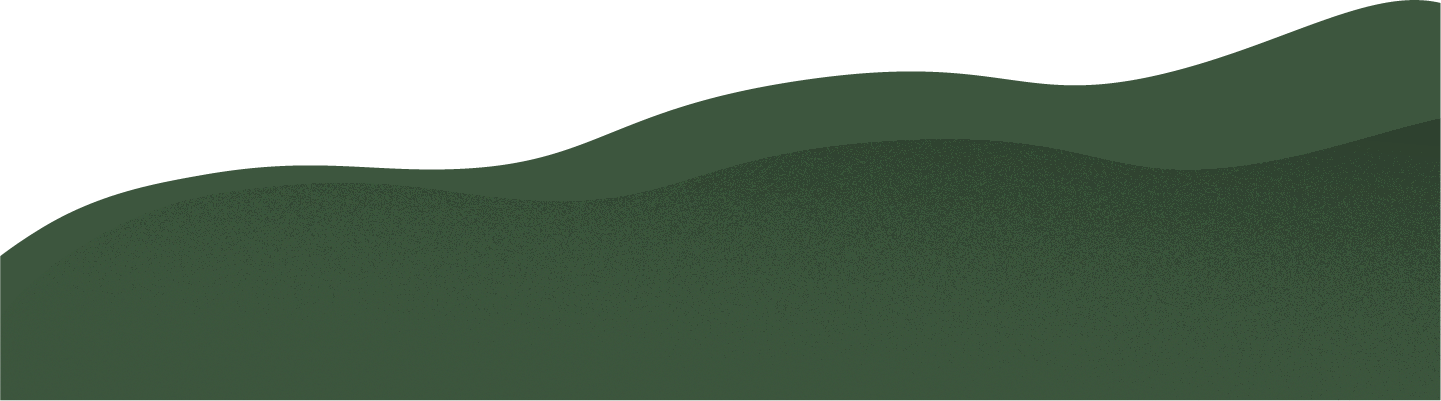
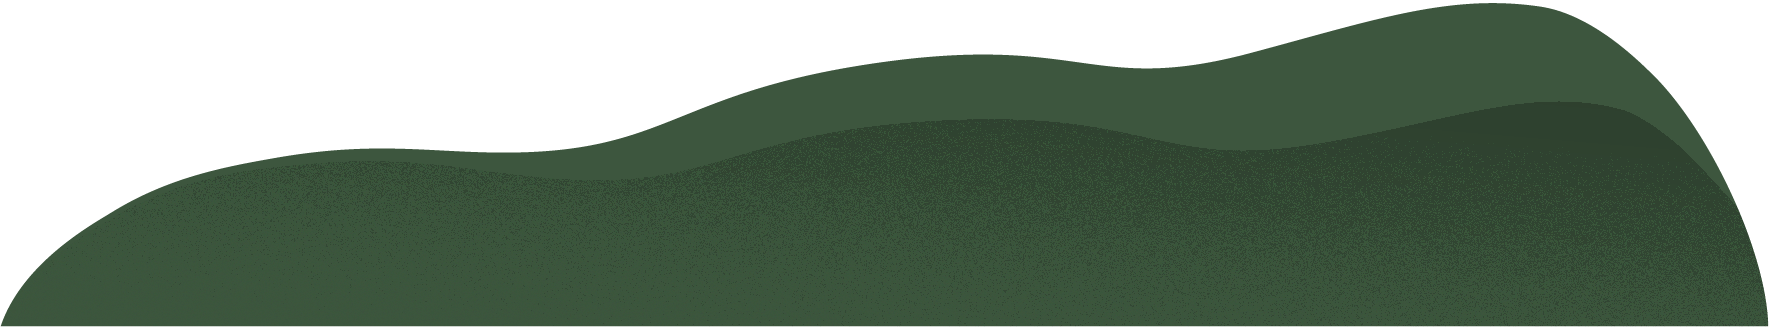
ABOUT修正

Changed region(s): [[0.0, 0.0, 1.0, 1.0]]

diff --git a/portfolio/about.html b/portfolio/about.html
@@ -32,99 +32,85 @@
 
   <main>
 
+    <!-- ABOUT -->
     <div class="about-container">
       <h2 class="about_page-title-container">
         <img src="./images/about_titie.png" alt="ABOUT" class="about_page-title">
-        <p class="about_page-title-sub">作品一覧</p>
+        <p class="about_page-title-sub">私について</p>
       </h2>
-
+      <div class="about-column">
+        <img src="./images/about_photo.png" alt="プロフィール写真" class="about-photo">
+        <div class="about_page-text-container">
+          <p class="about_page-text-name">Utako</p>
+          <p class="about_page-text">
+            1991年生まれ、福岡県在住。現役薬剤師。<br>
+            小さい頃から好きだったものづくりをやりたくて、オンラインスクールでWEBデザインを学びました。
+            落ち着いた雰囲気のなかに、少しの遊びゴコロを加えたようなデザインが好きです。
+          </p>
+          <a href="">
+            <img src="./images/instagram_green.png" alt="instagram_icon" class="instagram_icon-green">
+          </a>
+        </div>
+      </div>
+      <div class="about-container-bottom"></div>
     </div>
 
-
-    <!-- WORKS -->
-    <div id="works">
-      <h2 class="works-title-container">
-        <img src="./images/works_home.svg" alt="WORKS" class="works-title">
-        <p class="works-title-sub">作品一覧</p>
+    <!-- LIKES -->
+    <div class="likes-wrapper">
+      <!-- LIKES見出し -->
+      <h2 class="likes-title-container">
+        <img src="./images/likes_title.png" alt="LIKES" class="likes-title">
+        <p class="likes-title-sub">好きなもの</p>
       </h2>
-      <ul class="works-contents-container">
-        <li class="works-contents">
-          <p class="works-contents-category">web site</p>
-          <img src="./images/works_website_1.png" alt="works1" class="works-contents-item">
-          <p class="works-contents-title">あああ</p>
-        </li>
-        <li class="works-contents">
-          <p class="works-contents-category">web site</p>
-          <img src="./images/works_banner_1.png" alt="works2" class="works-contents-item">
-          <p class="works-contents-title">あああ</p>
-        </li>
-        <li class="works-contents">
-          <p class="works-contents-category">web site</p>
-          <img src="./images/works_website_2.png" alt="works3" class="works-contents-item">
-          <p class="works-contents-title">あああ</p>
-        </li>
-      </ul>
-      <a href="">
-        <p class="works-btn-more">View More</p>
-      </a>
-    </div>
 
-    <!-- SKILL -->
-    <div id="skill">
-      <h2 class="skill-title-container">
-        <img src="./images/skill_home.svg" alt="SKILL" class="skill-title">
-        <p class="skill-title-sub">できること</p>
-      </h2>
-      <!-- Designの説明 -->
-      <div class="skill-container">
-        <p class="skill-contents-title">Design</p>
-        <div class="skill-box">
-          <div class="skill-item-box">
-            <p class="skill-item">Ai</p>
-            <p class="skill-item">Ps</p>
+      <!-- LIKES左側3ブロック -->
+      <div class="likes-left">
+        <!-- LIKES左側の上段2ブロック -->
+        <div class="likes-left-top">
+          <div class="likes-left-top-container">
+            <div class="likes-text-wrapper">
+              <p class="likes-text-title">Comic</p>
+              <p class="likes-text">
+                例文：デザインカンプを基に、HTML・CSSで再現します。
+                JavaScriptを用い動きを加えたものや、各デバイスに合わせたレスポンシブなコーディングにも対応いたします。
+              </p>
+            </div>
           </div>
-          <p class="skill-text">
-            Webサイト、LP、バナー等のデザイン制作を行います。お客様の目的に合わせたデザインかつ、ユーザー目線でわかりやすいデザインをお届けいたします。
+          <div class="likes-left-top-container">
+            <div class="likes-text-wrapper">
+              <p class="likes-text-title">Movie</p>
+              <p class="likes-text">
+                例文：デザインカンプを基に、HTML・CSSで再現します。
+                JavaScriptを用い動きを加えたものや、各デバイスに合わせたレスポンシブなコーディングにも対応いたします。
+              </p>
+            </div>
+          </div>
+        </div>
+        <!-- LIKES左側の下段1ブロック（横長） -->
+        <div class="likes-left-bottom-container">
+          <div class="likes-text-wrapper">
+            <p class="likes-text-title">Food</p>
+            <p class="likes-text">
+              例文：デザインカンプを基に、HTML・CSSで再現します。
+              JavaScriptを用い動きを加えたものや、各デバイスに合わせたレスポンシブなコーディングにも対応いたします。
+              例文：デザインカンプを基に、HTML・CSSで再現します。
+              JavaScriptを用い動きを加えたものや、各デバイスに合わせたレスポンシブなコーディングにも対応いたします。
+            </p>
+          </div>
+        </div>
+      </div>
+      <!-- LIKES右側1ブロック（縦長） -->
+      <div class="likes-right">
+        <div class="likes-text-wrapper">
+          <p class="likes-text-title">Music</p>
+          <p class="likes-text">
+            例文：デザインカンプを基に、HTML・CSSで再現します。
+            JavaScriptを用い動きを加えたものや、各デバイスに合わせたレスポンシブなコーディングにも対応いたします。
+            例文：デザインカンプを基に、HTML・CSSで再現します。
+            JavaScriptを用い動きを加えたものや、各デバイスに合わせたレスポンシブなコーディングにも対応いたします。
           </p>
         </div>
       </div>
-      <!-- Cordingの説明 -->
-      <div class="skill-container">
-        <p class="skill-contents-title">Cording</p>
-        <div class="skill-box">
-          <div class="skill-item-box">
-            <p class="skill-item">HTML</p>
-            <p class="skill-item">CSS</p>
-            <p class="skill-item">Java<br>Script</p>
-          </div>
-          <p class="skill-text">
-            デザインカンプを基に、HTML・CSSで再現します。JavaScriptを用い動きを加えたものや、各デバイスに合わせたレスポンシブなコーディングにも対応いたします。
-          </p>
-        </div>
-      </div>
-    </div>
-
-    <!-- ABOUT -->
-    <div id="about">
-      <h2 class="about-title-container">
-        <img src="./images/about_home.svg" alt="ABOUT" class="about-title">
-        <p class="about-title-sub">私について</p>
-      </h2>
-      <img src="./images/home_about_back_img.png" class="about-back-beige">
-      <div class="about-text-container">
-        <div class="about-text-name-container">
-          <p class="about-text-name">Utako</p>
-          <p class="about-text-name-sub">Web designer</p>
-        </div>
-        <p class="about-text">
-          1991年生まれ、福岡県在住。<br>
-          落ち着いた雰囲気のなかに、少しの遊びゴコロを加えたようなデザインが好きです。想いを形にするお手伝いができれば嬉しいです。
-        </p>
-      </div>
-      <img src="./images/home_about_backshadow_img.png" class="about-back-shadow">
-      <a href="">
-        <p class="about-btn-more">View More</p>
-      </a>
     </div>
 
     <!-- CONTACT -->
@@ -178,9 +164,15 @@
 </html>
 
 
-<!-- aboutページの質問 
+<!-- aboutページの質問、変更点など 
 ・ABOUT上部の波状の背景をどのように配置すれば良いかわかりませんでした。
-
+また、背景の境目に線が出てしましました。
+書き出した画像を確認しましたが、画像自体には線がついておらず、これはコーディングの方で対策ができるのでしょうか。
 
 ・indexと同じcssファイルを使用する際、背景色が
+
+・コーディングを行いながら各コンテンツの幅が思ったよりも大きく感じたこと、レスポンシブでの崩れ等を考えて
+コンテンツ幅を1000pxに変更してみました。
+
+
 -->

diff --git a/portfolio/css/style.css b/portfolio/css/style.css
@@ -398,7 +398,7 @@ p{
 
 .instagram_icon{
   width: auto;
-  height: 50px;
+  height: 30px;
   display: block;
   margin: 4% auto;
 }
@@ -454,29 +454,151 @@ p{
   background-color: #e6dfcb;
   background-image: url(../images/about_back_top.png);
   background-repeat: no-repeat;
-  max-width: 100%;
-  height: 2000px;
-
+  background-position: right top;
+  width: 100%;
 }
 
 .about_page-title-container{
-
+  max-width: 1000px;
+  height: 72px;
+  margin: 0 auto;
+  padding-top: 300px;
+  padding-bottom: 100px;
 }
 
 .about_page-title{
   width: auto;
   height: 60px;
   display: block;
-  margin: 0 auto 10px;
+  margin-right: auto;
+  margin-bottom: 10px;
 }
 
 .about_page-title-sub{
   color: #3d563e;
   font-size: 30px;
   font-family: fot-tsukuardgothic-std, sans-serif;
-  text-align: center;
 }
 
+.about-column{
+  max-width: 800px;
+  display: flex;
+  column-gap: 120px;
+  margin: 0 auto;
+}
+
+.about-photo{
+  width: auto;
+  height: 250px;
+}
+
+.about_page-text-name{
+  color: #3d563e;
+  font-size: 50px;
+  font-family: 'Noto Sans JP', sans-serif;
+  font-weight: bold;
+}
+
+.about_page-text{
+  color: #3d563e;
+  font-size: 16px;
+  font-family: fot-tsukuardgothic-std, sans-serif;
+  line-height: 1.5;
+  width: 100%;
+  margin: 37px 0;
+}
+
+.instagram_icon-green{
+  width: auto;
+  height: 30px;
+}
+
+.about-container-bottom{
+  background-color: #e6dfcb;
+  background-image: url(../images/about_back_bottom.png);
+  background-repeat: no-repeat;
+  background-position: bottom;
+  background-size: cover;
+  width: 100%;
+  height: 400px;
+}
+
+/* ABOUT内likes */
+.likes-wrapper{
+  max-width: 1000px;
+  height: 600px;
+  margin: 0 auto;
+  display: flex;
+}
+
+.likes-title{
+  width: 60px;
+  height: auto;
+  margin-bottom: 10px;
+}
+
+.likes-title-sub{
+  color: #e6dfcb;
+  font-size: 30px;
+  font-family: fot-tsukuardgothic-std, sans-serif;
+  writing-mode: sideways-lr;
+  padding-left: 30px;
+}
+
+.likes-left{
+  width: 617px;
+  margin: 0 17px;
+}
+
+/* <!-- LIKES左側の上段2ブロック --> */
+.likes-left-top{
+  display: flex;
+  justify-content: space-between;
+  margin-bottom: 17px;
+}
+
+.likes-left-top-container{
+  background-color: #e6dfcb;
+  width: 300px;
+  height: 300px;
+  border-radius: 40px;
+}
+
+/* LIKES左側の下段1ブロック */
+.likes-left-bottom-container{
+  background-color: #e6dfcb;
+  width: 100%;
+  height: 280px;
+  border-radius: 50px;
+}
+
+/* LIKES右側1ブロック */
+.likes-right{
+  background-color: #e6dfcb;
+  width: 300px;
+  height: 100%;
+  border-radius: 50px;
+}
+
+
+/* LIKES各項目のタイトルと本文（共通） */
+.likes-text-wrapper{
+  padding: 50px;
+}
+
+.likes-text-title{
+  color: #3d563e;
+  font-size: 30px;
+  font-family: 'Noto Sans JP', sans-serif;
+  font-weight: bold;
+  margin-bottom: 50px;
+}
+
+.likes-text{
+  color: #3d563e;
+  font-size: 16px;
+  line-height: 1.2;
+}
 
 /* 以下、works.html */
 
